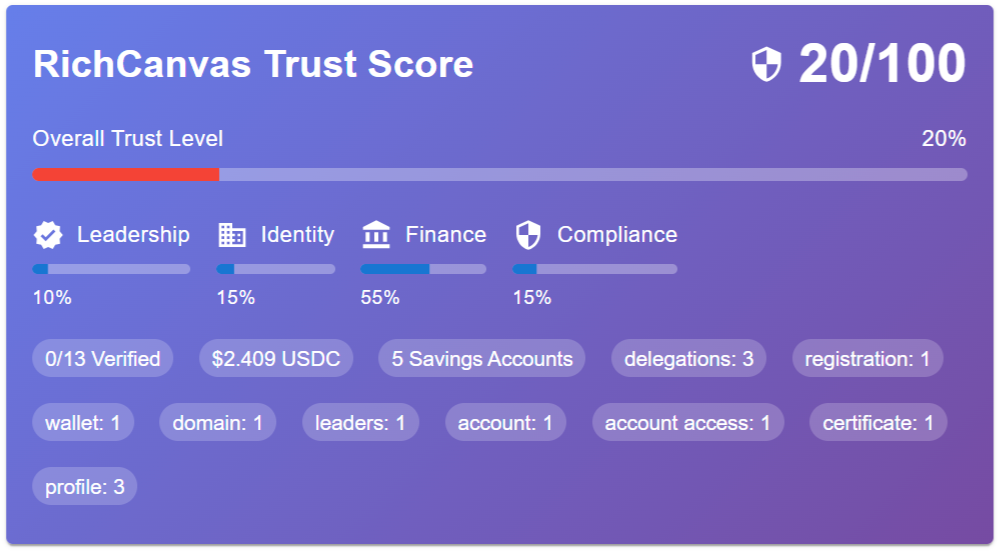
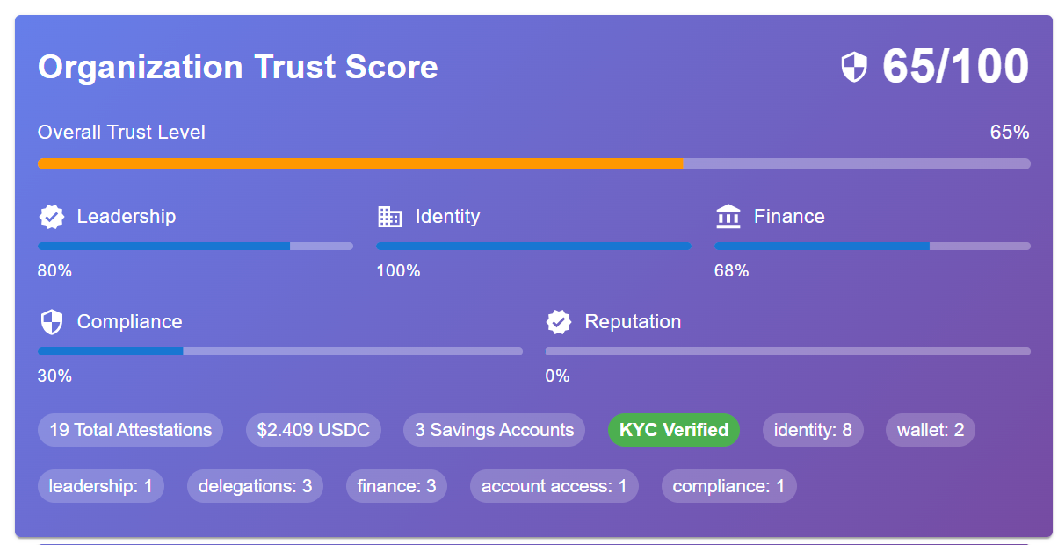
new trust score

Changed region(s): [[0.0, 0.0, 1.0, 1.0], [0.217, 0.5264, 0.279, 0.5574]]

diff --git a/src/hooks/useTrustScore.ts b/src/hooks/useTrustScore.ts
@@ -69,7 +69,7 @@ export const useTrustScore = ({ orgDid, indivDid }: UseTrustScoreProps) => {
     },
     finance: {
       categories: ['finance', 'account', 'credit', 'revenue', 'funding'],
-      entityPatterns: ['account(org)', 'account-indiv(org)'],
+      entityPatterns: ['account(org)'],
       verifiedPoints: 20,
       unverifiedPoints: 10
     },
@@ -101,16 +101,27 @@ export const useTrustScore = ({ orgDid, indivDid }: UseTrustScoreProps) => {
     let totalUSDCBalance = 0;
     let savingsAccounts = 0;
     let hasKYC = false;
+    let leadershipAttestations: Attestation[] = [];
 
     // Check for MetaMask Card attestation and apply KYC logic
     const hasMetaMaskCard = attestations.some(att => att.displayName === "MetaMask Card");
+    console.log('MetaMask Card detection:', {
+      hasMetaMaskCard,
+      allAttestations: attestations.map(att => ({
+        displayName: att.displayName,
+        category: att.category,
+        entityId: att.entityId
+      }))
+    });
+    
     if (hasMetaMaskCard) {
       hasKYC = true;
+      console.log('KYC flag set to true due to MetaMask Card');
       // Boost leadership score by 30% (add 30% of current leadership score)
       // We'll apply this after calculating the base leadership score
     }
 
-    // Calculate scores based on attestation types and categories
+    // First pass: collect all leadership attestations
     attestations.forEach(att => {
       // Count attestations by category
       if (att.category) {
@@ -134,30 +145,21 @@ export const useTrustScore = ({ orgDid, indivDid }: UseTrustScoreProps) => {
         }
       }
 
-      // Add points to the appropriate pillar
-      if (contributingPillar) {
+      // Collect leadership attestations for special processing
+      if (contributingPillar === 'leadership') {
+        leadershipAttestations.push(att);
+        console.log('Leadership attestation found:', {
+          displayName: att.displayName,
+          category: att.category,
+          entityId: att.entityId,
+          contributingPillar
+        });
+      }
+
+      // Add points to the appropriate pillar (except leadership which we'll handle separately)
+      if (contributingPillar && contributingPillar !== 'leadership') {
         const config = pillarMapping[contributingPillar];
-        let points = config.verifiedPoints; // Use same points for all attestations
-        
-        // Special handling for leadership pillar - first attestation gets 50% of points
-        if (contributingPillar === 'leadership') {
-          const existingLeadershipAttestations = attestations.filter(a => {
-            for (const [pillar, pillarConfig] of Object.entries(pillarMapping)) {
-              if (pillar === 'leadership' && 
-                  (pillarConfig.categories.includes(a.category || '') || 
-                   (a.entityId && pillarConfig.entityPatterns.some(pattern => a.entityId?.includes(pattern))))) {
-                return true;
-              }
-            }
-            return false;
-          }).length;
-          
-          // If this is the first leadership attestation, give 50% of points
-          if (existingLeadershipAttestations === 0) {
-            points = Math.round(config.verifiedPoints * 0.5);
-          }
-        }
-        
+        const points = config.verifiedPoints; // Use same points for all attestations
         breakdown[contributingPillar] += points;
         
         // Count savings accounts for finance pillar
@@ -180,10 +182,55 @@ export const useTrustScore = ({ orgDid, indivDid }: UseTrustScoreProps) => {
       }
     });
 
+    // Special handling for leadership attestations
+    if (leadershipAttestations.length > 0) {
+      const config = pillarMapping.leadership;
+      const totalLeadershipPoints = leadershipAttestations.length * config.verifiedPoints;
+      
+      console.log('Leadership scoring debug:', {
+        totalAttestations: leadershipAttestations.length,
+        totalLeadershipPoints,
+        attestations: leadershipAttestations.map(att => ({
+          displayName: att.displayName,
+          category: att.category,
+          entityId: att.entityId
+        }))
+      });
+      
+      // First leadership attestation gets at least 50% of total leadership score
+      const firstAttestationPoints = Math.max(
+        Math.round(totalLeadershipPoints * 0.8), // At least 80% of total
+        config.verifiedPoints // But not less than normal points
+      );
+      
+      // Remaining points distributed among other leadership attestations
+      const remainingPoints = totalLeadershipPoints - firstAttestationPoints;
+      const remainingAttestations = leadershipAttestations.length - 1;
+      
+      if (remainingAttestations > 0) {
+        const pointsPerRemainingAttestation = Math.round(remainingPoints / remainingAttestations);
+        breakdown.leadership = firstAttestationPoints + (remainingAttestations * pointsPerRemainingAttestation);
+      } else {
+        breakdown.leadership = firstAttestationPoints;
+      }
+      
+      console.log('Leadership score calculation:', {
+        firstAttestationPoints,
+        remainingPoints,
+        remainingAttestations,
+        finalLeadershipScore: breakdown.leadership
+      });
+    }
+
     // Apply KYC boost to leadership score if MetaMask Card is present
     if (hasKYC) {
-      const leadershipBoost = Math.round(breakdown.leadership * 0.3); // 30% boost
+      const leadershipBoost = Math.round(breakdown.leadership * 3.0); // 30% boost
       breakdown.leadership += leadershipBoost;
+      console.log('KYC boost applied:', {
+        originalScore: breakdown.leadership - leadershipBoost,
+        boost: leadershipBoost,
+        finalScore: breakdown.leadership
+      });
     }
 
     // Calculate USDC balances for savings accounts
@@ -228,6 +275,8 @@ export const useTrustScore = ({ orgDid, indivDid }: UseTrustScoreProps) => {
       breakdown[key as keyof typeof breakdown] = Math.min(100, breakdown[key as keyof typeof breakdown]);
     });
 
+    console.log('Final breakdown before overall calculation:', breakdown);
+
     // Calculate overall score (weighted average)
     const overall = Math.round(
       (breakdown.leadership * 0.25 + 
@@ -236,6 +285,15 @@ export const useTrustScore = ({ orgDid, indivDid }: UseTrustScoreProps) => {
        breakdown.compliance * 0.20 + 
        breakdown.reputation * 0.10)
     );
+
+    console.log('Overall score calculation:', {
+      leadership: breakdown.leadership * 0.25,
+      identity: breakdown.identity * 0.25,
+      finance: breakdown.finance * 0.20,
+      compliance: breakdown.compliance * 0.20,
+      reputation: breakdown.reputation * 0.10,
+      total: overall
+    });
 
     return {
       overall: Math.min(100, overall),
